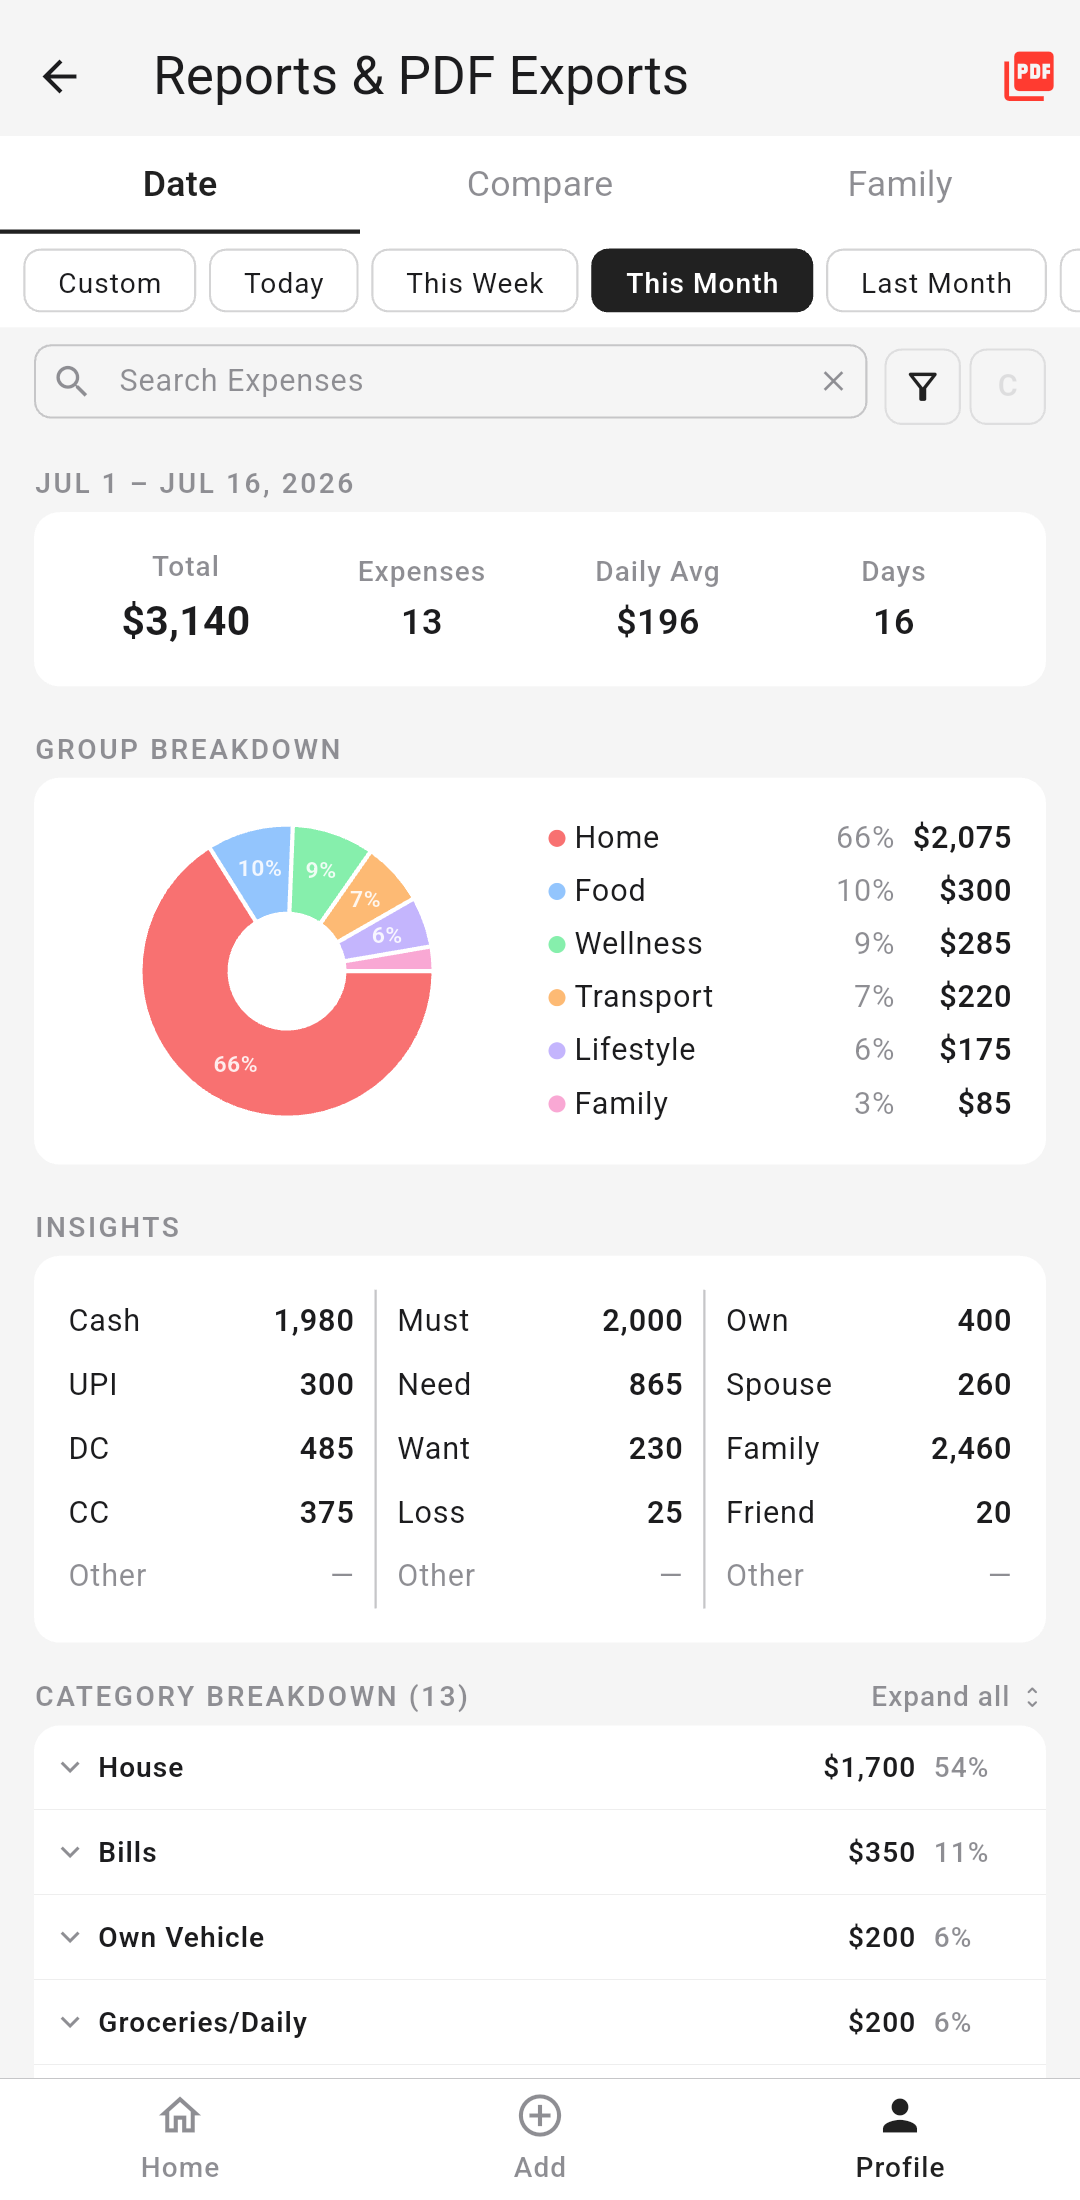
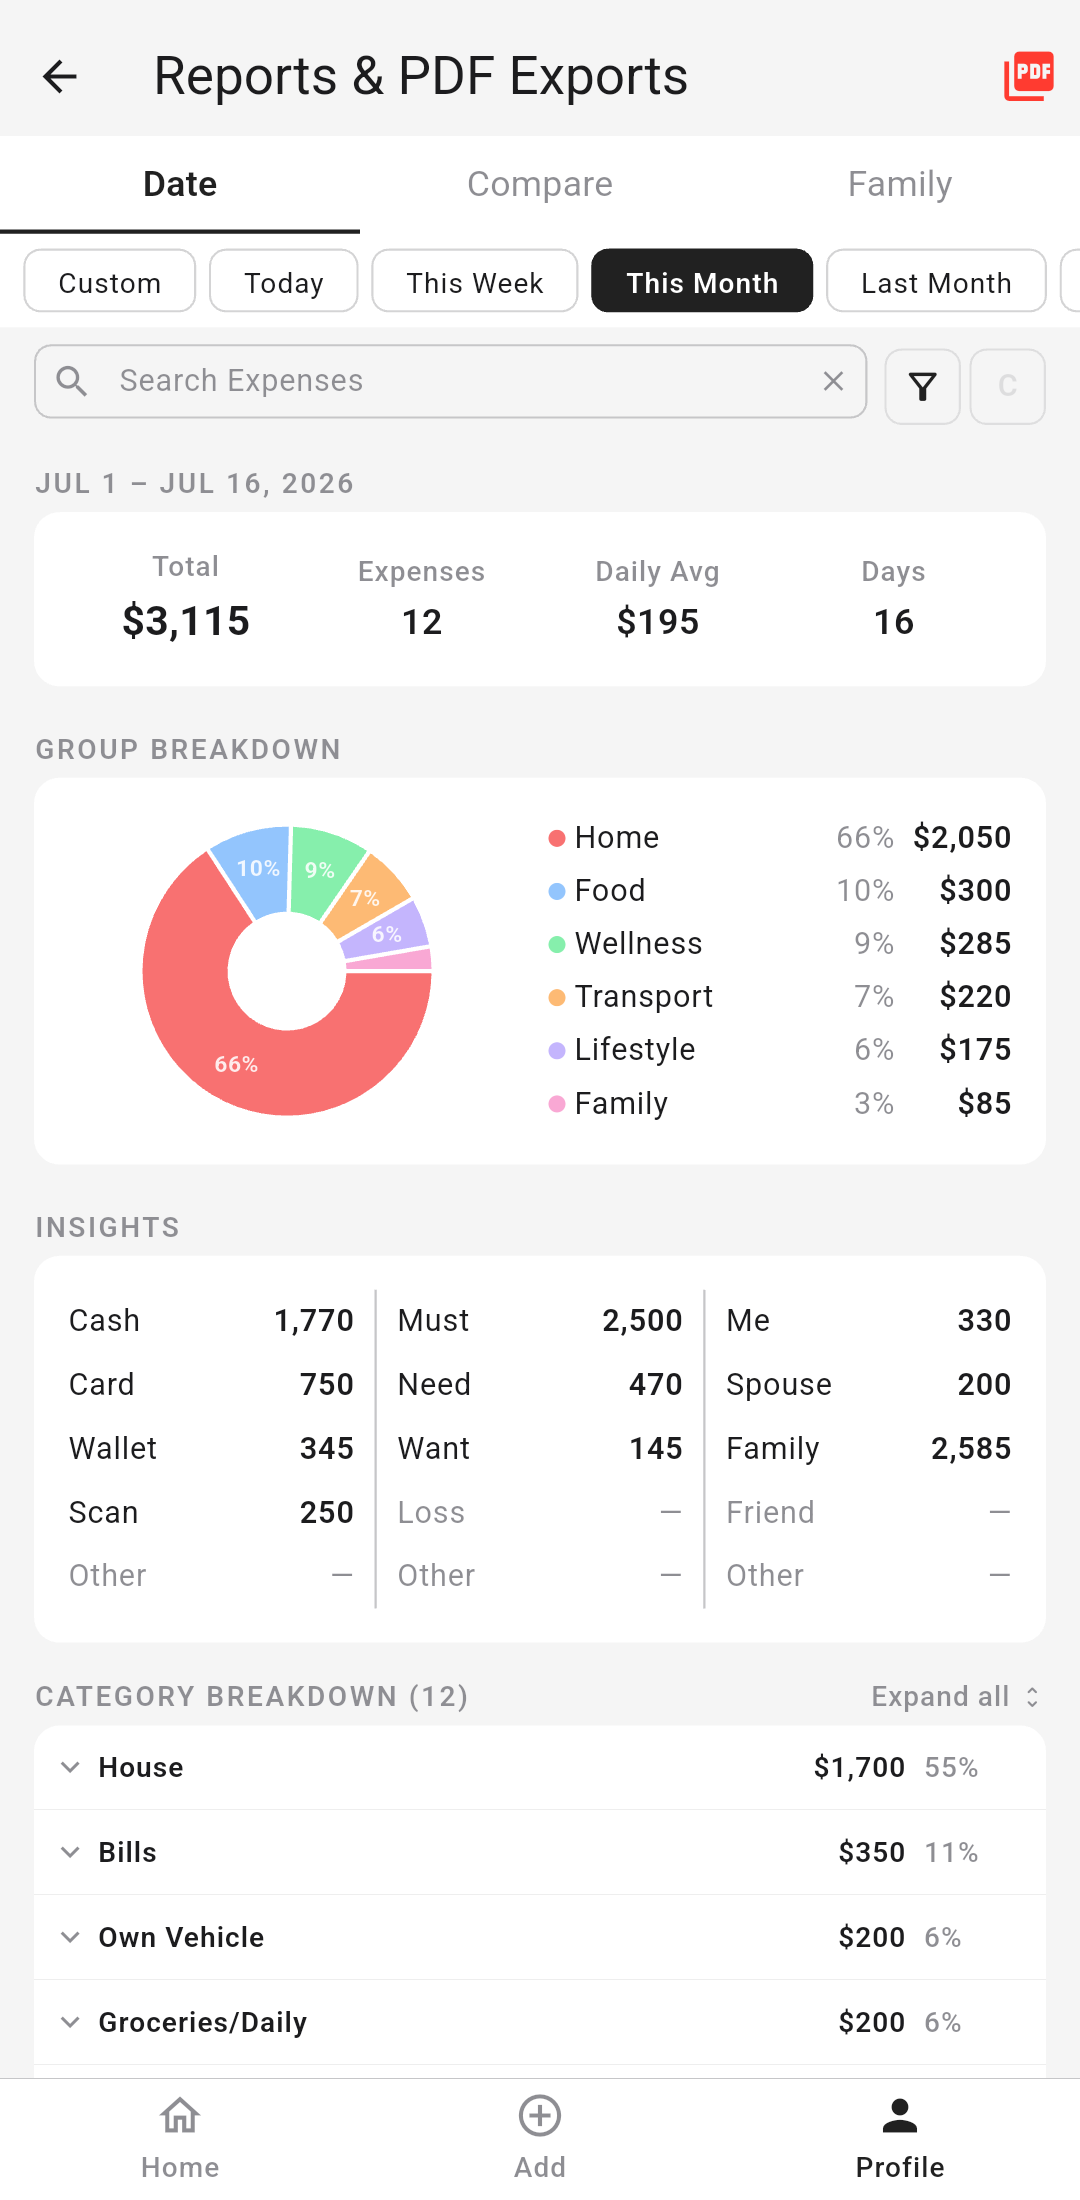
Update mbh.html content and screen images

diff --git a/moneybosshome/mbh.html b/moneybosshome/mbh.html
@@ -745,7 +745,7 @@
             <tr><td>Set Budget</td>              <td class="cell-check">✓</td><td class="cell-check">✓</td></tr>
             <tr><td>Dashboard</td>               <td class="cell-check">✓</td><td class="cell-check">✓</td></tr>
             <tr><td>Add Expense</td>             <td class="cell-check">✓</td><td class="cell-check">✓</td></tr>
-            <tr><td>Favourite</td>               <td class="cell-check">✓</td><td class="cell-check">✓</td></tr>
+            <tr><td>Favourites</td>              <td class="cell-check">✓</td><td class="cell-check">✓</td></tr>
             <tr><td>Calculator</td>              <td class="cell-check">✓</td><td class="cell-check">✓</td></tr>
             <tr><td>Set Reminder</td>            <td class="cell-check">✓</td><td class="cell-check">✓</td></tr>
             <tr><td>Dark Theme</td>              <td class="cell-check">✓</td><td class="cell-check">✓</td></tr>
